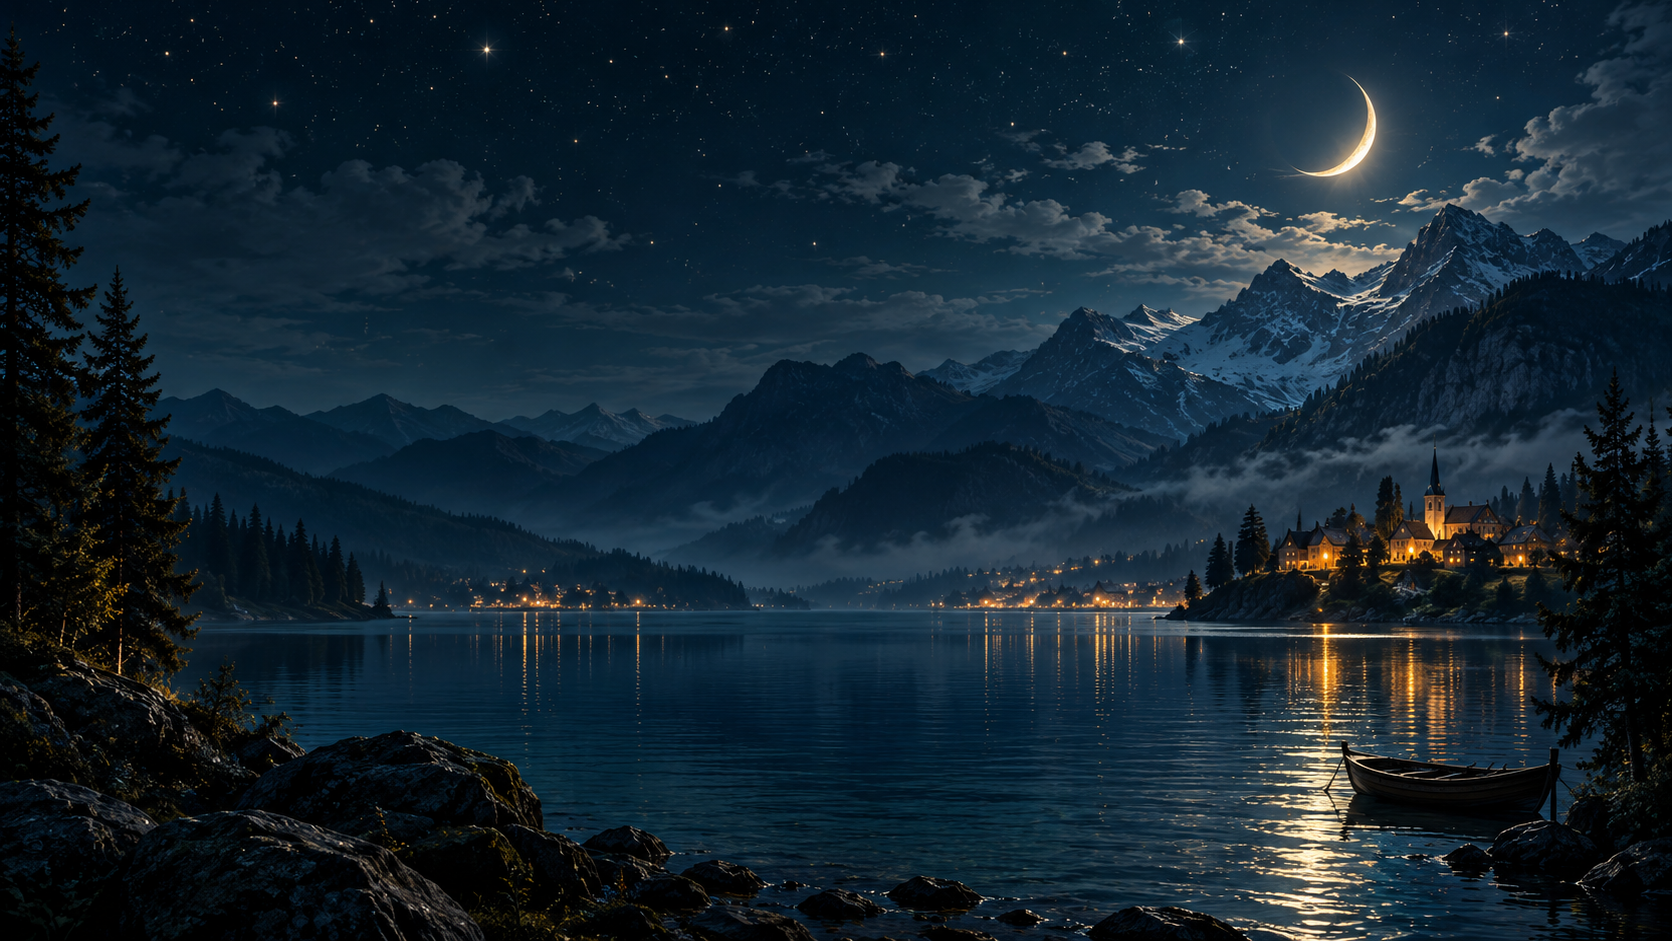
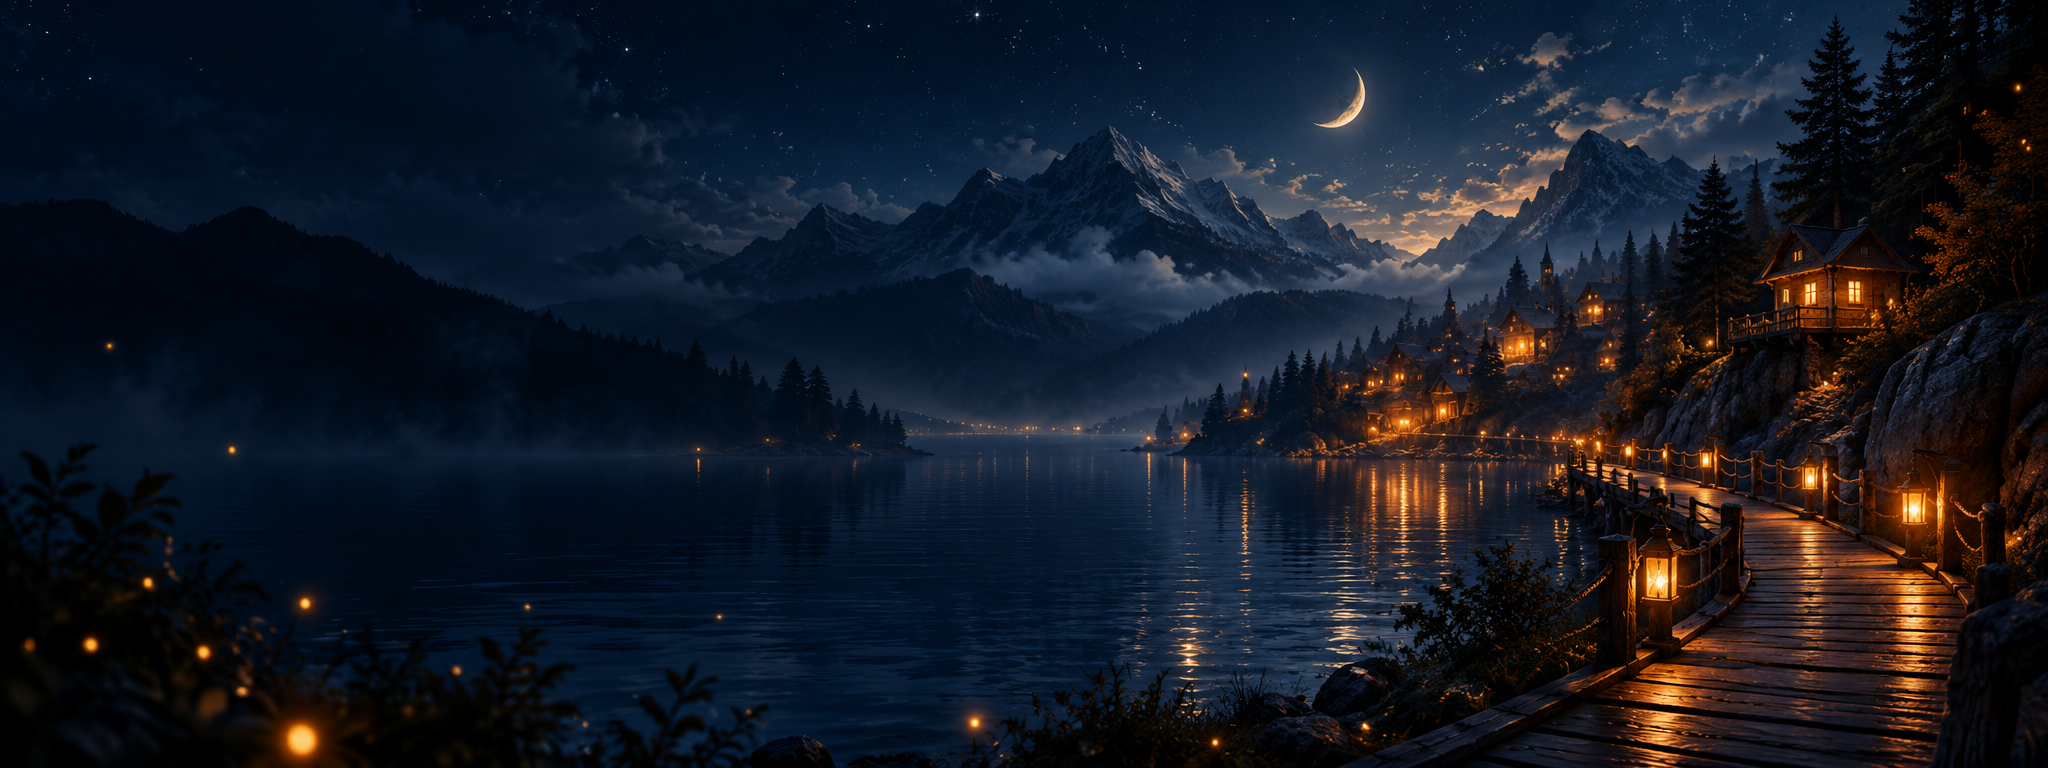
Обновить ночные фоны и добавить искры

diff --git a/story-images.css b/story-images.css
@@ -14,6 +14,44 @@
   background: linear-gradient(180deg, rgba(4, 15, 22, 0.02) 45%, rgba(4, 15, 22, 0.84) 100%);
 }
 
+/* Мягкие золотистые искры поверх новых ночных иллюстраций */
+.hero::after,
+.story-art::before,
+.quote-card::before,
+.bot-panel::before {
+  content: "";
+  position: absolute;
+  inset: 0;
+  pointer-events: none;
+  z-index: 1;
+  opacity: .58;
+  background-image:
+    radial-gradient(circle at 18% 32%, rgba(255, 206, 125, .95) 0 1px, transparent 2px),
+    radial-gradient(circle at 73% 22%, rgba(255, 184, 84, .8) 0 1px, transparent 2px),
+    radial-gradient(circle at 84% 61%, rgba(255, 218, 154, .8) 0 1.5px, transparent 3px),
+    radial-gradient(circle at 42% 76%, rgba(255, 181, 72, .72) 0 1px, transparent 2px),
+    radial-gradient(circle at 59% 45%, rgba(255, 226, 173, .65) 0 1px, transparent 2px);
+  background-size: 310px 270px, 390px 330px, 470px 360px, 350px 410px, 520px 290px;
+  filter: drop-shadow(0 0 5px rgba(255, 181, 72, .55));
+  animation: ember-drift 9s ease-in-out infinite alternate;
+}
+
+.hero::after { z-index: -1; opacity: .42; }
+.quote-card,
+.bot-panel { isolation: isolate; }
+
+@keyframes ember-drift {
+  from { transform: translate3d(0, 4px, 0); opacity: .35; }
+  to { transform: translate3d(8px, -7px, 0); opacity: .7; }
+}
+
+@media (prefers-reduced-motion: reduce) {
+  .hero::after,
+  .story-art::before,
+  .quote-card::before,
+  .bot-panel::before { animation: none; }
+}
+
 .story-card--blue .story-art {
   background-image: url("story-forest.png");
   background-position: center 55%;
